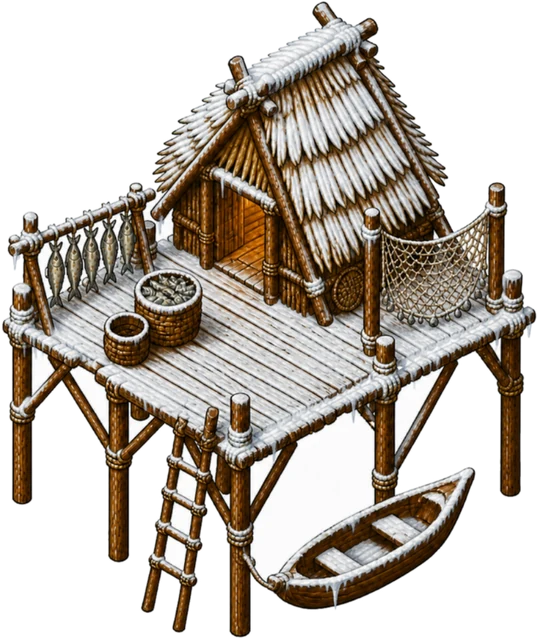
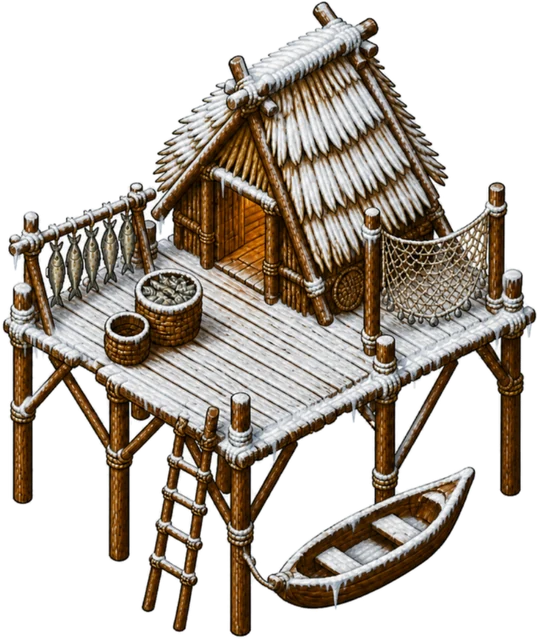
Epochia 67: Winterbilder für Lagerfeuer, Wohnhöhle und Steinkreis von hinten; Freistellen lässt den Schnee ganz
Claude-Session: https://claude.ai/code/session_01W1n1hiLKjnig7o8w32eGHP

diff --git a/neu/index.html b/neu/index.html
@@ -3,7 +3,7 @@
 <head>
   <meta charset="UTF-8">
   <meta name="viewport" content="width=device-width, initial-scale=1, maximum-scale=1, user-scalable=no, viewport-fit=cover">
-  <meta name="app-version" content="66">
+  <meta name="app-version" content="67">
   <meta name="theme-color" content="#3d7a2a">
   <meta name="color-scheme" content="only light">
   <meta name="apple-mobile-web-app-capable" content="yes">

diff --git a/neu/js/daten.js b/neu/js/daten.js
@@ -2,7 +2,7 @@
 // Epochia – alle Spieldaten (Zahlen zum Feinjustieren stehen hier oben, die Logik liest nur daraus).
 // Pläne: docs/konzept-neu.md und docs/epoche-1-steinzeit.md
 
-const APP_VERSION = 66;
+const APP_VERSION = 67;
 
 const CONFIG = {
   mapSize: 512,           // Felder je Seite, zentral änderbar (Vielfaches von 16; 64 bis Version 21, 128 bis Version 54 – alte Karten liegen in der Mitte)

diff --git a/neu/service-worker.js b/neu/service-worker.js
@@ -1,6 +1,6 @@
 // Epochia – offline spielen. Bei Änderungen die Versionsnummer erhöhen (gleiche Nummer wie
 // APP_VERSION in js/daten.js und <meta name="app-version"> in index.html).
-const CACHE = 'v66';
+const CACHE = 'v67';
 const ASSETS = [
   './',
   'index.html',

diff --git a/neu/tools/bild-einbauen.py b/neu/tools/bild-einbauen.py
@@ -2,6 +2,9 @@
 # und messen, wo die vordere Ecke der Grasplatte liegt (anker = Anteil der Bildhöhe).
 #   python3 neu/tools/bild-einbauen.py quelle.png bilder/epochia/1-lagerfeuer.webp 640
 #   python3 neu/tools/bild-einbauen.py quelle.png bilder/epochia/start.webp 1600 --ganz   (ohne Freistellen)
+#   python3 neu/tools/bild-einbauen.py quelle.png bilder/epochia/x-winter.webp 640 --schnee
+#     Winterbilder: nur genau die Hintergrundfarbe freistellen (sonst frisst das Freistellen den Schnee am Rand).
+#     Dazu --loecher nur bei Bildern ohne Platte (Säulen): entfernt auch eingeschlossenen Hintergrund; auf Schnee würde das Löcher reißen.
 import sys
 from collections import deque
 from PIL import Image, ImageFilter
@@ -18,7 +21,10 @@ w, h = im.size
 mask = Image.new('L', (w, h), 0)
 px, m = im.load(), mask.load()
 q = deque([(x, y) for x in range(w) for y in (0, h - 1)] + [(x, y) for y in range(h) for x in (0, w - 1)])
-white = lambda p: p[0] > 232 and p[1] > 232 and p[2] > 232
+snow = '--schnee' in sys.argv
+corners = sorted(px[c] for c in [(2, 2), (w - 3, 2), (2, h - 3), (w - 3, h - 3)])
+bg = corners[1]
+white = (lambda p: max(abs(p[i] - bg[i]) for i in range(3)) <= 5) if snow else (lambda p: p[0] > 232 and p[1] > 232 and p[2] > 232)
 while q:
     x, y = q.popleft()
     if m[x, y] or not white(px[x, y]):
@@ -28,6 +34,24 @@ while q:
     if x < w - 1: q.append((x + 1, y))
     if y > 0: q.append((x, y - 1))
     if y < h - 1: q.append((x, y + 1))
+if '--loecher' in sys.argv:   # eingeschlossene Flächen in Hintergrundfarbe (ab 300 Punkten)
+    seen = bytearray(w * h)
+    for sy in range(h):
+        for sx in range(w):
+            if seen[sy * w + sx] or m[sx, sy] or not white(px[sx, sy]):
+                continue
+            part, st = [], [(sx, sy)]
+            seen[sy * w + sx] = 1
+            while st:
+                x, y = st.pop()
+                part.append((x, y))
+                for a, b in ((x - 1, y), (x + 1, y), (x, y - 1), (x, y + 1)):
+                    if 0 <= a < w and 0 <= b < h and not seen[b * w + a] and not m[a, b] and white(px[a, b]):
+                        seen[b * w + a] = 1
+                        st.append((a, b))
+            if len(part) >= 300:
+                for x, y in part:
+                    m[x, y] = 255
 alpha = Image.eval(mask, lambda v: 255 - v).filter(ImageFilter.GaussianBlur(1.0))
 out = im.convert('RGBA')
 out.putalpha(alpha)
